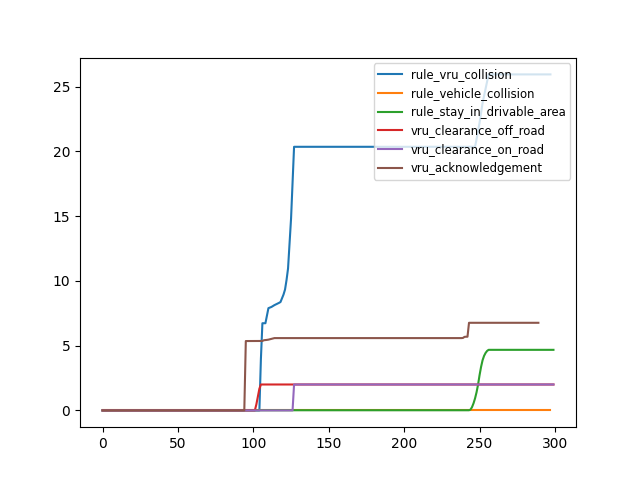
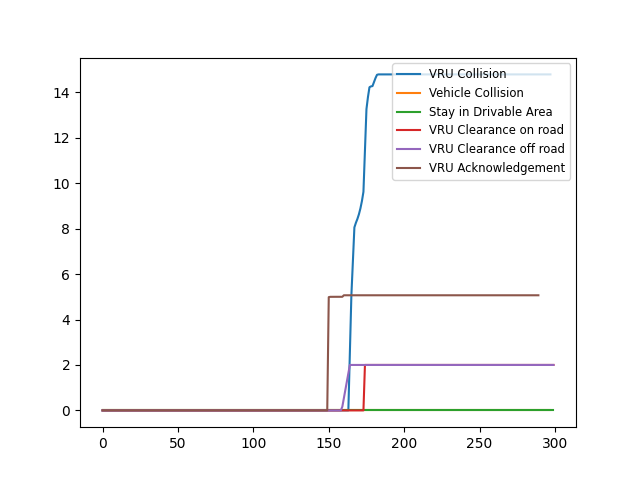
changed pedestrian collision gif

diff --git a/src/rulebook_benchmark/rulebook.py b/src/rulebook_benchmark/rulebook.py
@@ -1,25 +1,49 @@
+from rulebook_benchmark.rule_functions import *
+
 class Rulebook:
     def __init__(self, rules):
         self.rules = rules
     
-    def apply(self, realization, **kwargs):
+    def apply(self, realization):
         violations = []
         violation_histories = []
         for rule in self.rules:
-            violation, violation_history = rule(realization, **kwargs)
+            violation, violation_history = rule(realization)
             violations.append(violation)
             violation_histories.append(violation_history)
             
         return violations, violation_histories
     
+    def __call__(self, realization):
+        return self.apply(realization)
+    
+    @property
+    def rule_names(self):
+        return [rule.name for rule in self.rules]
+    
+    #TODO: add/remove rule function
+    
+
+    
     
 class Rule:
-    def __init__(self, rule, name, description):
-        self.rule = rule
+    def __init__(self, rule_function, name, description, args={}):
+        self.rule = rule_function
         self.name = name
         self.description = description
+        self.args = args
     
-    def __call__(self, realization, **kwargs):
-        return self.rule(realization, **kwargs)
+    def __call__(self, realization):
+        return self.rule(realization, **self.args)
     
-    
+
+
+vru_collision_rule = Rule(rule_function=rule_vru_collision, name="VRU Collision", description="No collision with VRUs.")
+vehicle_collision_rule = Rule(rule_function=rule_vehicle_collision, name="Vehicle Collision", description="No collision with vehicles.", args={"start_index": 0, "end_index": None})
+stay_in_drivable_area_rule = Rule(rule_function=rule_stay_in_drivable_area, name="Stay in Drivable Area", description="Ego vehicle has to stay in drivable area.", args={"start_index": 0, "end_index": None})
+vru_clearance_on_road_rule = Rule(rule_function=vru_clearance_on_road, name="VRU Clearance on road", description="Ego vehicle has to keep a minimum distance to VRUs on road.", args={"start_index": 0, "end_index": None})
+vru_clearance_off_road_rule = Rule(rule_function=vru_clearance_off_road, name="VRU Clearance off road", description="Ego vehicle has to keep a minimum distance to VRUs off road.", args={"start_index": 0, "end_index": None})
+vru_acknowledgement_rule = Rule(rule_function=vru_acknowledgement, name="VRU Acknowledgement", description="Ego vehicle has to slow down if a VRU is on its planned trajectory.", args={"start_index": 0, "end_index": None})
+
+default_rulebook = Rulebook([vru_collision_rule, vehicle_collision_rule, stay_in_drivable_area_rule, vru_clearance_on_road_rule, vru_clearance_off_road_rule, vru_acknowledgement_rule])
+

diff --git a/src/rulebook_benchmark/rule_functions.py b/src/rulebook_benchmark/rule_functions.py
@@ -147,17 +147,17 @@ def vru_clearance(realization, on_road=False, threshold = 2, start_index=None, e
 
 
 
-def vru_clearance_on_road(realization, start_index=None, end_index=None):
-    return vru_clearance(realization, on_road=True, start_index=start_index, end_index=end_index)
+def vru_clearance_on_road(realization, start_index=None, end_index=None, threshold = 2):
+    return vru_clearance(realization, on_road=True, start_index=start_index, end_index=end_index, threshold = threshold)
 
 
-def vru_clearance_off_road(realization, start_index=None, end_index=None):
-    return vru_clearance(realization, on_road=False, start_index=start_index, end_index=end_index)
+def vru_clearance_off_road(realization, start_index=None, end_index=None, threshold = 2):
+    return vru_clearance(realization, on_road=False, start_index=start_index, end_index=end_index, threshold = threshold)
 
 
                 
                 
-def vru_acknowledgement(realization, proximity=100, threshold=5,  timesteps=10, start_index=None, end_index=None):
+def vru_acknowledgement(realization, proximity=5, threshold=5,  timesteps=10, start_index=None, end_index=None):
     if start_index is None:
         start_index = 0
     
